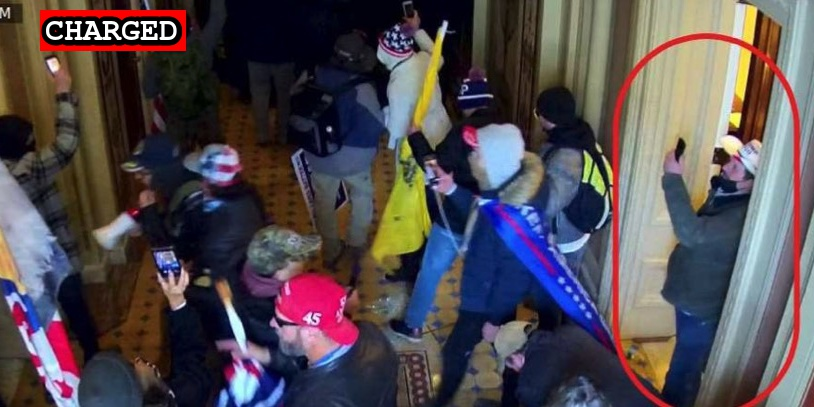
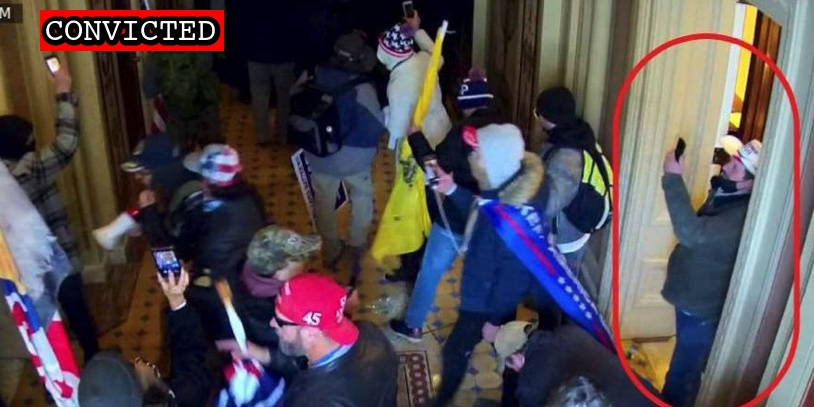
Latest DOJ import

Changed region(s): [[0.0614, 0.0, 0.2764, 0.1474]]

diff --git a/docs/_suspects/terry-brown.md b/docs/_suspects/terry-brown.md
@@ -34,17 +34,16 @@ published: true
 caseNumber: 1:21-cr-41
 videos:
 charges:
-  - code: 18 USC § 5104(e)(2)(G)
-    title: Parading, Demonstrating or Picketing in a Capitol Building
-    url: https://www.law.cornell.edu/uscode/text/40/5104
-    felony: false
+- code: 18 USC § 5104(e)(2)(G)
+  title: Parading, Demonstrating or Picketing in a Capitol Building
+  url: https://www.law.cornell.edu/uscode/text/40/5104
+  felony: false
 sentence:
 ---
-
 - [News Report](https://www.ldnews.com/story/news/2021/01/07/lebanon-county-arrested-during-capitol-siege-has-no-regrets-trump-supporters-election-washington/6588911002/)
 - [DOJ Press Release](https://www.justice.gov/opa/pr/thirteen-charged-federal-court-following-riot-united-states-capitol)
 - [Complaint](https://www.justice.gov/opa/press-release/file/1351716/download)
 - [Statement of Facts](https://www.justice.gov/opa/press-release/file/1351721/download)
 - [Indictment](https://www.justice.gov/usao-dc/case-multi-defendant/file/1364786/download)
 - [Information](https://extremism.gwu.edu/sites/g/files/zaxdzs2191/f/Fichett%20et%20al%20Information_0.pdf)
-- [Plea Agreement](https://extremism.gwu.edu/sites/g/files/zaxdzs2191/f/Terry%20Brown%20Plea%20Agreement.pdf)
+- [Plea Agreement](https://www.justice.gov/usao-dc/case-multi-defendant/file/1432431/download)

diff --git a/docs/_suspects/phillip-bromley.md b/docs/_suspects/phillip-bromley.md
@@ -34,15 +34,14 @@ published: true
 caseNumber: 1:21-cr-250
 videos:
 charges:
-  - code: 18 USC § 5104(e)(2)(D)
-    title: Disorderly Conduct in a Capitol Building
-    url: https://www.law.cornell.edu/uscode/text/40/5104
-    felony: false
+- code: 18 USC § 5104(e)(2)(D)
+  title: Disorderly Conduct in a Capitol Building
+  url: https://www.law.cornell.edu/uscode/text/40/5104
+  felony: false
 sentence:
 ---
-
 - [News Report](https://www.al.com/news/2021/02/alabama-medical-worker-arrested-in-dc-riot-witnessed-ashli-babbitts-fatal-shooting.html)
 - [Complaint](https://extremism.gwu.edu/sites/g/files/zaxdzs2191/f/Phillip%20Andrew%20Bromley%20Criminal%20Complaint.pdf)
-- [Statement of Facts](https://www.justice.gov/usao-dc/case-multi-defendant/file/1371306/download)
+- [Statement of Facts](https://www.justice.gov/usao-dc/case-multi-defendant/file/1452941/download)
 - [Information](https://www.justice.gov/usao-dc/case-multi-defendant/file/1382341/download)
-- [Plea Agreement](https://storage.courtlistener.com/recap/gov.uscourts.dcd.229332/gov.uscourts.dcd.229332.37.0.pdf)
+- [Plea Agreement](https://www.justice.gov/usao-dc/case-multi-defendant/file/1452936/download)

diff --git a/docs/_suspects/kevin-creek.md b/docs/_suspects/kevin-creek.md
@@ -34,14 +34,14 @@ published: true
 caseNumber:
 videos:
 charges:
-  - code: 18 USC § 111(a)(1)
-    title: Assaulting, resisting, or impeding certain officers or employees
-    url: https://www.law.cornell.edu/uscode/text/18/111
-    felony: true
+- code: 18 USC § 111(a)(1)
+  title: Assaulting, resisting, or impeding certain officers or employees
+  url: https://www.law.cornell.edu/uscode/text/18/111
+  felony: true
 sentence:
 ---
-
 - [News Report](https://www.msn.com/en-us/news/crime/mckinney-man-linked-to-capitol-riot-using-gps-data-court-document-says/ar-BB1eLRWH)
-- [Statement of Facts](https://www.justice.gov/opa/case-multi-defendant/file/1402941/download)
+- [Statement of Facts](https://www.justice.gov/usao-dc/case-multi-defendant/file/1452896/download)
 - [Information](https://storage.courtlistener.com/recap/gov.uscourts.dcd.236923/gov.uscourts.dcd.236923.29.0.pdf)
 - [DOJ Press Release](https://www.justice.gov/usao-dc/pr/georgia-man-arrested-assault-law-enforcement-during-jan-6-capitol-breach)
+- [Plea Agreement](https://www.justice.gov/usao-dc/case-multi-defendant/file/1452891/download)

diff --git a/docs/_suspects/john-juran.md b/docs/_suspects/john-juran.md
@@ -4,15 +4,15 @@ lastName: Juran
 hashtag: JohnJuran
 aka: Jack Juran
 residence: New York
-status: Charged
+status: Convicted
 date: 2021-04-21
 charged: 2021-04-21
 indicted:
-convicted:
+convicted: 2021-12-01
 sentenced:
 dismissed:
 deceased:
-plea_hearing:
+plea_hearing: 2021-12-01
 sentencing:
 age: 51
 occupation:
@@ -34,8 +34,13 @@ published: true
 caseNumber:
 videos:
 charges:
+- code: 18 USC § 5104(e)(2)(G)
+  title: Parading, demonstrating or picketing in a Capitol building
+  url: https://www.law.cornell.edu/uscode/text/40/5104
+  felony: false
 sentence:
 ---
 - [News Report](https://lawandcrime.com/u-s-capitol-siege/feds-arrest-new-york-man-seen-wearing-trump-2020-cowboy-hat-during-u-s-capitol-breach/)
-- [Statement of Facts](https://www.justice.gov/usao-dc/case-multi-defendant/file/1395351/download)
+- [Statement of Facts](https://www.justice.gov/usao-dc/case-multi-defendant/file/1452921/download)
 - [Information](https://www.justice.gov/usao-dc/case-multi-defendant/file/1410416/download)
+- [Plea Agreement](https://www.justice.gov/usao-dc/case-multi-defendant/file/1452916/download)

diff --git a/docs/_suspects/mark-rebegila.md b/docs/_suspects/mark-rebegila.md
@@ -41,4 +41,5 @@ charges:
 sentence:
 ---
 - [News Report](https://www.kansas.com/news/local/crime/article249988189.html)
-- [Statement of Facts](https://www.justice.gov/usao-dc/case-multi-defendant/file/1379146/download)
+- [Statement of Facts](https://www.justice.gov/usao-dc/case-multi-defendant/file/1452911/download)
+- [Plea Agreement](https://www.justice.gov/usao-dc/case-multi-defendant/file/1452906/download)
